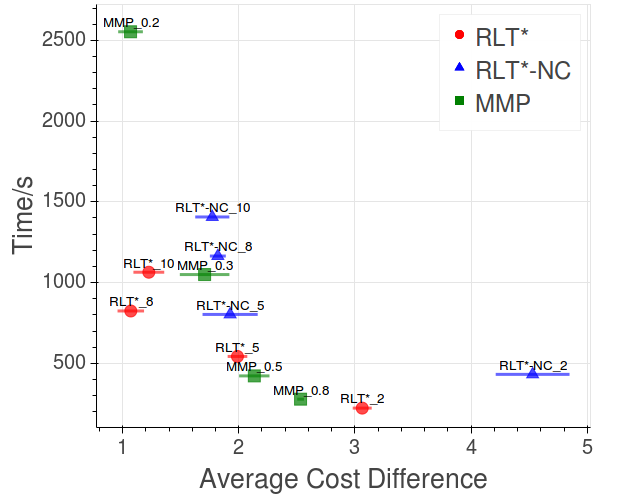
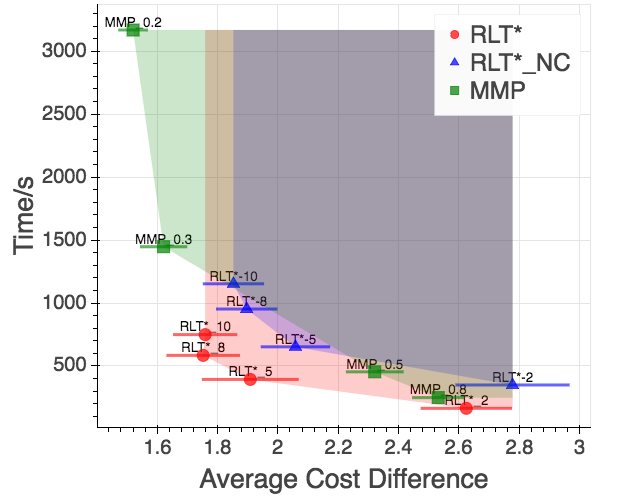
final draft

diff --git a/IRL_RRT.tex b/IRL_RRT.tex
@@ -79,7 +79,7 @@ Rapidly Exploring Learning Trees
 %%%%%%%%%%%%%%%%%%%%%%%%%%%%%%%%%%%%%%%%%%%%%%%%%%%%%%%%%%%%%%%%%%%%%%%%%%%%%%%%
 \begin{abstract}
 Inverse Reinforcement Learning (IRL) for path planning enables robots to learn cost functions for difficult tasks from demonstration, instead of hard-coding them. However, IRL methods face practical limitations that stem from the need to repeat costly planning procedures.
-In this paper, we propose Rapidly Exploring Learning Trees (RLT$^*$), which learns the cost functions of Rapidly Exploring Random Trees (RRT) from demonstration \jm{Since vanilla RRTs don't use cost functions, we should already mention specifically RRT* here}, thereby making inverse learning methods applicable to more complex tasks. Our approach extends Maximum Margin Planning to work with RRT$^*$ cost functions. Furthermore, we propose a caching scheme that greatly reduces the computational cost of this approach. Experimental results on simulated and real-robot data from a social navigation scenario show that RLT$^*$ achieves better performance at lower computational cost than existing methods.  We also successfully deploy control policies learned with RLT$^*$ on a real telepresence robot.
+In this paper, we propose Rapidly Exploring Learning Trees (RLT$^*$), which learns the cost functions of Optimal Rapidly Exploring Random Trees (RRT$^*$) from demonstration, thereby making inverse learning methods applicable to more complex tasks. Our approach extends Maximum Margin Planning to work with RRT$^*$ cost functions. Furthermore, we propose a caching scheme that greatly reduces the computational cost of this approach. Experimental results on simulated and real-robot data from a social navigation scenario show that RLT$^*$ achieves better performance at lower computational cost than existing methods.  We also successfully deploy control policies learned with RLT$^*$ on a real telepresence robot.
 
 
 \end{abstract}
@@ -88,17 +88,17 @@ In this paper, we propose Rapidly Exploring Learning Trees (RLT$^*$), which lear
 %%%%%%%%%%%%%%%%%%%%%%%%%%%%%%%%%%%%%%%%%%%%%%%%%%%%%%%%%%%%%%%%%%%%%%%%%%%%%%%%
 \section{Introduction}
 
-Learning from demonstration (LfD) \cite{argall2009survey} is of great interest to roboticists because it can avoid the need for tedious manual programming of complex behaviours \jm{Not just ``tedious'', it is often infeasible to program complex behaviours manually}. While most LfD methods rely on supervised learning (i.e., behavioural cloning) to directly learn policies, certain approaches, namely inverse optimal control (IOC) \cite{kalman1964linear} and inverse reinforcement learning (IRL) \cite{abbeel2004apprenticeship} instead learn \emph{cost functions} from demonstration, which are then used to \emph{plan} the robot's behaviour. 
+Learning from demonstration (LfD) \cite{argall2009survey} is of great interest to roboticists because it can circumvent tedious and often infeasible manual programming of complex behaviours. While most LfD methods rely on supervised learning (i.e., behavioural cloning) to directly learn policies, certain approaches, namely inverse optimal control (IOC) \cite{kalman1964linear} and inverse reinforcement learning (IRL) \cite{abbeel2004apprenticeship} instead learn \emph{cost functions} from demonstration, which are then used to \emph{plan} the robot's behaviour. 
 
 In addition, learned cost functions are often useful even when the environment changes.  For example, if the friction in a robot's wheels changes due to wear and tear, the optimal policy will change but the cost function will not. Thus, a robot trained via supervised learning would need to learn a new policy, while a robot trained via IRL could simply replan on the new dynamics with its existing cost function. In addition, cost functions are thought to be more succinct representations of the aims of the agent \cite{abbeel2004apprenticeship}. For example, a robot whose aim is to reach a goal as fast as possible may have a simple cost function but a complex policy. 
 
-IRL is an iterative process that, in an inner loop, solves the forward planning problem (i.e., finds an optimal policy under the current cost function) and subsequently, in an outer loop, updates the current cost function. This process repeats until convergence. For continuous domains such as robotics, solving the planning problem exactly is typically intractable. The domain can be discretised but doing so scales poorly in the dimensionality \jm{minor: the ``so'' in ``doing so'' here means discretization, which isn't what scales poorly in the dimensionality (the planning step is what scales poorly, not the discretization). Maybe you should rephrase it as something like: ``doing so may result in very high-dimensional models, to which most planning algorithms scale poorly''}, necessitating a coarse discretisation that yields poor performance.  Consequently, in robotics, planning is often done using sample-based, single-query motion planners, such as Rapidly Exploring Random Trees (RRTs) \cite{lavalle1998rapidly} and their variants \cite{karaman2011sampling}. Such methods can cope with high-dimensional continuous domains and elegantly handle \jm{the presence of} obstacles in the environment and motion constraints on the robot.
+IRL is an iterative process that, in an inner loop, solves the forward planning problem (i.e., finds an optimal policy under the current cost function) and subsequently, in an outer loop, updates the current cost function. This process repeats until convergence. For continuous domains such as robotics, solving the planning problem exactly is typically intractable. Doing so may result in very high-dimensional models, to which most planning algorithms scale poorly, necessitating a coarse discretisation that yields poor performance.  Consequently, in robotics, planning is often done using sample-based, single-query motion planners, such as Rapidly Exploring Random Trees (RRTs) \cite{lavalle1998rapidly} and their variants \cite{karaman2011sampling}. Such methods can cope with high-dimensional continuous domains and elegantly the presence of obstacles in the environment and motion constraints on the robot.
 
 %  IRL for example requires modeling the task as a Markov decision process (MDP), which is typically impractical in robotics, for several reasons.  Firstly, an MDP assumes full observability. Secondly, planning in an MDP, which IRL methods must do repeatedly, is costly, especially in continuous and high-dimensional domains. Finally, the lack of scalability and the assumption of full observability prohibit the accurate modeling of all aspect of the environment that a robot is expected to operate in. 
 
 % For these reasons, several researchers have proposed replacing the planning step in IRL with more convienient planners, e.g., Maximum Margin Planning (MMP)~\cite{ratliff2006maximum} uses A$^*$ search for planning. This avoids the need to do all the planning in advance, as is typical when solving an MDP. It also avoids the need to model all aspects of the environment since the robot can quickly replan its trajectory to account for uncertainty. However, deterministic search methods such as A$^*$ require discretisation of the state space, and quickly run into scalability problems as the discretisation becomes finer. 
 
-In this paper, we propose a new approach to IRL that enables the use of RRT$^*$ \cite{karaman2011sampling}, the optimality-driven variant of RRT, in the planning step.  First, we propose Approximate Maximum Margin Planning (AMMP), a variant of Maximum Margin Planning (MMP) \cite{ratliff2006maximum} that does not require optimal planning \jm{something missing here. In the last sentence you highlighted the use of ``optimality-driven'' RRT* but here you're saying you propose something else (that the reader doesn't know about yet) that does not require optimal planning. This will seem contradictory to the reader}.  Second, we propose a caching scheme that both improves performance and reduces computational cost when RRT$^*$ is used within AMMP. The resulting algorithm, which we call Rapidly Exploring Learning Trees (RLT$^*$),  allows computationally efficient IRL in high-dimensional, continuous domains with obstacles and motion constraints. 
+In this paper, we first, we propose Approximate Maximum Margin Planning (AMMP), a variant of Maximum Margin Planning (MMP) \cite{ratliff2006maximum} that does not assume an optimal planner. Doing so, allows us to use sample-based planning algorithms, such as RRT$^*$ in the inner loop of IRL. Second, we propose a caching scheme that both improves performance and reduces computational cost when RRT$^*$ is used within AMMP. The resulting algorithm, which we call Rapidly Exploring Learning Trees (RLT$^*$),  allows computationally efficient IRL in high-dimensional, continuous domains with obstacles and motion constraints. 
 
 We evaluate RLT$^*$ on real and simulated data from a social navigation scenario. The results demonstrate that, in the absence of obstacles and motion constraints, RLT$^*$ performs better and is faster than both MMP and RLT$^*$ without caching. Furthermore, we show that RLT$^*$, unlike MMP, can learn cost functions in robotic tasks with obstacles and motion constraints. Finally, we deploy our method on a real telepresence robot using data from human demonstrations.
 
@@ -111,13 +111,13 @@ We evaluate RLT$^*$ on real and simulated data from a social navigation scenario
 
 
 Substantial research has applied IRL to robotics \cite{henry2010learning,abbeel2008apprenticeship,vasquez2014inverse}.
-A big challenge in doing so is solving the forward planning problem under the current cost function at every iteration. The planning problem is especially intractable in robotics where the state-action spaces encountered are \jm{often} continuous and high dimensional. %Researchers thus resort to assumptions and approximations which reduce the computational cost of the procedure while allowing for high quality solutions. 
+A big challenge in doing so is solving the forward planning problem under the current cost function at every iteration. The planning problem is especially intractable in robotics where the state-action spaces encountered are often continuous and high dimensional. %Researchers thus resort to assumptions and approximations which reduce the computational cost of the procedure while allowing for high quality solutions. 
 
 One approach is to discretise the state-action spaces and solve the resulting Markov decision process (MDP). However, in high-dimensional tasks, fine discretisations render planning intractable and coarse discretisations yield poor performance.
 
-Some methods that use discretisation formulate the problem such that only an open-loop path (rather than a closed-loop policy) is required. Then, given deterministic dynamics, planning can be performed using A$^*$ \cite{ratliff2006maximum}, allowing realistic problems to be tackled. We take a similar approach but, by planning using RRT$^*$, we expand on the possibilities of the tasks that can be learned. \sw{This is confusing: paths are easier to plan so can scale better wrt dimensionality?  But still require discretisation and so not as scalable as RRT?  Needs to be made much clearer.}
+Some methods that use discretisation formulate the problem such that only an open-loop path (rather than a closed-loop policy) is required. Then, given deterministic dynamics, planning can be performed using A$^*$ \cite{ratliff2006maximum}, allowing realistic problems to be tackled. We take a similar approach but, by planning using RRT$^*$, we expand on the possibilities of the tasks that can be learned.
 
-Another approach is to use hybrid planners. Inverse Optimal Heuristic Control \cite{ratliff2009inverse} models the long-term goals of the agent as a coarsely discretised MDP, to ensure tractability, while using supervised learning to determine the local policy of the agent at each state. Graph-Based IOC \cite{byravan2015graph} uses discrete optimal control on a coarse graph and the actual path is executed using local trajectory optimisation techniques such as CHOMP \cite{ratliff2009chomp}, which would otherwise suffer from local minima. However, these methods employ complex and domain-specific planning formulations that are not suitable for all robotics tasks. By contrast, our approach employs widely used planners \jm{``a'' widely used planner}, making it versatile and easy to implement. 
+Another approach is to use hybrid planners. Inverse Optimal Heuristic Control \cite{ratliff2009inverse} models the long-term goals of the agent as a coarsely discretised MDP, to ensure tractability, while using supervised learning to determine the local policy of the agent at each state. Graph-Based IOC \cite{byravan2015graph} uses discrete optimal control on a coarse graph and the actual path is executed using local trajectory optimisation techniques such as CHOMP \cite{ratliff2009chomp}, which would otherwise suffer from local minima. However, these methods employ complex and domain-specific planning formulations that are not suitable for all robotics tasks. By contrast, our approach employs a widely used planners, making it versatile and easy to implement. 
 
 Another recent method is that Adaptive State Graphs \cite{okallearning}, which builds a state-action controller graph before doing any learning. This controller graph is akin to \emph{options} in semi-Markov decision processes, and allows for a more flexible representation of the state-action space. However, the controller used to learn underlying cost function is different from the one used to execute the robot's behaviour. This can have adverse effects since IRL  assumes that the demonstration paths came from the same planner used during learning.  Instead of building a controller graph first and then using a different controller to optimise trajectories, RLT$^*$ builds a controller tree on the fly and uses the same planner for learning and execution.
 
@@ -156,7 +156,7 @@ This cost functional is similar to the one used in optimal control and analogous
 \end{equation}
 $Z_{o,g}$ is the set of possible paths such that $s_1 = o, s_{l_\zeta} = g$.
 
-Many path planning algorithms discretise $\mathcal{S}$ and use graph search algorithms like A$^*$ to find the optimal path. Under mild assumptions, these approaches are guaranteed to find the best path on the graph, therefore solving \eqref{eq:back_plan} for a subset $\tilde{Z}_{o,g} \subset Z_{o,g}$, whose size depends on the discretisation. However, such methods scale poorly in the size of $\mathcal{S}$. Furthermore, such algorithms ignore motion constraints as they assume all nodes in the graph can be reached by its neighbours in exactly the same way. \jm{Is this true, though? The A* node expansion phase would take care of this, as long as there is some state-dependent expansion mechanism it should be fine, no?} This assumption does not hold, e.g., for non-holonomic robots, where the ortientation at each node places constraints on how it can be reached. In this new constrained space it is less straightforward to define actions and neighbouring nodes. 
+Many path planning algorithms discretise $\mathcal{S}$ and use graph search algorithms like A$^*$ to find the optimal path. Under mild assumptions, these approaches are guaranteed to find the best path on the graph, therefore solving \eqref{eq:back_plan} for a subset $\tilde{Z}_{o,g} \subset Z_{o,g}$, whose size depends on the discretisation. However, such methods scale poorly in the size of $\mathcal{S}$. Furthermore, such algorithms ignore motion constraints as they assume all nodes in the graph can be reached by its neighbours in exactly the same way. This assumption does not hold, e.g., for non-holonomic robots, where the ortientation at each node places constraints on how it can be reached. In this new constrained space it is less straightforward to define actions, neighbouring nodes as well as an admissible heuristic without which the algorithm is no longer optimal.
 
 These drawbacks motivate \emph{sample-based} path planning algorithms such as RRT$^*$  \cite{karaman2011sampling}. Instead of building a graph and then searching it, RRT$^*$ builds a tree on the fly and keeps track of the current best path. The algorithm consists of two interleaved steps. 
 
@@ -247,7 +247,7 @@ The inverse problem can therefore be seen as an iterative procedure that first s
 
 	\subsection{Approximate Maximum Margin Planning \label{subsec:ammp}}
 
-Section \ref{subsec:inverse_problem} shows how the multiple constraints of \eqref{eq:const1} can be reduced to the single constraint of \eqref{eq:const} for each demonstration. However, this reduction requires an optimal planner to perform the minimisation in \eqref{eq:const1}, which is impractical in many robot applications \jm{here I would be more specific, since up until this point in this paper you haven't yet presented any clear motivation for AMMP, and here your just vaguely saying that optimal planning is ``impractical'', so this section is not flowing very well. You can already highlight that even though RRT* could theoretically be used since it is asymptotically optimal, in practice optimality is not guaranteed since there is a budget on time or computational effort. This is why you need AMMP in order to enable the use of RRT*}. Suppose instead that, as in RRT$^*$, we have a mechanism for sampling different paths from $Z_{o,g}$ along with their respective costs and that, for a given finite time budget $T$, this path sampler samples a subset $\tilde{Z}_{o,g} \subset Z_{o,g}$,  Then we can modify \eqref{eq:const} to demand that our cost function satisfies,
+Section \ref{subsec:inverse_problem} shows how the multiple constraints of \eqref{eq:const1} can be reduced to the single constraint of \eqref{eq:const} for each demonstration. However, this reduction requires an optimal planner to perform the minimisation in \eqref{eq:const1}, which is impractical in many robot applications. Suppose instead that, as in RRT$^*$, we have a mechanism for sampling different paths from $Z_{o,g}$ along with their respective costs and that, for a given finite time budget $T$, this path sampler samples a subset $\tilde{Z}_{o,g} \subset Z_{o,g}$,  Then we can modify \eqref{eq:const} to demand that our cost function satisfies,
 \begin{equation}
 	C(\zeta^i_{o_i,g_i}) \leq \min_{\zeta_{o_i,g_i} \in \tilde{Z}_{o_i,g_i}} C(\zeta) \quad \forall i. \label{eq:const_rrt}
 \end{equation}
@@ -265,13 +265,12 @@ As suggested above, a simple way implement AMMP is to use RRT$^*$ as the sample-
 
 A key observation is that, in RRT$^*$, only the rewiring step depends on the cost function.  The sampling step is independent of it and, especially when motion constraints are present, contains the most computationally expensive operations. These are: 1) fitting and querying a data structure to find the nearest neighbour and the radius neighbours to a newly sampled point, 2) applying the steer function to all neighbours to and from the newly sampled point, and 3) checking for obstacles in these paths. By contrast,  the only potentially expensive operation in the rewiring step is querying the cost of an edge. 
 
-Therefore, the main idea behind RLT$^*$ is to perform the sampling step just once for each data point and cache it for reuse throughout learning \jm{I wouldn't say that this is the main idea behind RLT*- the main idea is using AMMP with RRT*. Besides, this would make the comparison with RLT*-NC nonsensical because it would be ``RLT* without the main idea''. You can just say ``Therefore, one important feature of RLT* is that we perform the sampling step once ...''}.  Then, at each iteration, only the rewiring step needs to be repeated as the cost function changes.
+Therefore, a key idea behind RLT$^*$ is to perform the sampling step just once for each data point and cache it for reuse throughout learning. Then, at each iteration, only the rewiring step needs to be repeated as the cost function changes.
 
 Algorithm \ref{alg:rrt_cache} describes the caching step, which takes as input $p$, the number of points to randomly sample from free space; $s_{init}$, the initial point; and $\eta$, the steer step size. For each randomly sampled point $s_{rand}$, we find the nearest neighbour, $s_{nearest}$, from the set of points in the vertex set $V$. We then create a new configuration point $s_{new}$ by steering from $s_{nearest}$ to $s_{rand}$. Next, we query the radius neighbours, $S_{near}$, of $s_{new}$ at a radius determined by  $\min\{\gamma_{RRT^*}(\frac{\log(|V|)}{|V|})^{\frac{1}{d}},\eta\}$. Here, $d$ is the dimensionality of $S$, and $\gamma_{RRT^*}$ is a constant based on the volume of free space (see \cite{karaman2011sampling}).  Next, we determine which points in $S_{near}$ can safely reach $s_{new}$ through the chosen \texttt{Steer} function (lines 13-17). These forward paths are stored in $Paths_{fwd}$. We then perform the same procedure but this time checking the paths from $s_{new}$ to $S_{near}$ and store them in the set $Paths_{bwd}$ (lines 18-22). This algorithm turns the sampling process of RRT$^*$  into a preprocessing step. Consequently, the expensive \texttt{Nearest}, \texttt{Near}, \texttt{Steer} and \texttt{Safe} procedures only need to be repeated $|D|$ times instead of $I\times|D|$ times.
 
 
 	\begin{algorithm}
-
 	 \algsetup{linenosize=\tiny}
  	\scriptsize
 	\caption{\small \texttt{cacheRRT}($n$,$s_{init}$,$\eta$)}
@@ -301,7 +300,7 @@ Algorithm \ref{alg:rrt_cache} describes the caching step, which takes as input $
 	\ENDIF
 	\ENDFOR
 	\STATE $V\gets V \cup s_{new}$
-	\STATE $P \gets P \cup \{s_{new},S_{fwd},S_{bwd},Paths_{fwd},Paths_{bwd}\}$
+	\STATE $P \gets P \cup \{s_{nearest},s_{new},S_{fwd},S_{bwd},Paths_{fwd},Paths_{bwd}\}$
 	\ENDFOR
 	\RETURN $P$
 	\end{algorithmic}
@@ -313,13 +312,7 @@ The output of Algorithm \ref{alg:rrt_cache} is input to Algorithm \ref{alg:plan_
 
 Algorithm \ref{alg:ammp} describes Rapidly Exploring Learning Trees (RLT$^*$), which uses Algorithms \ref{alg:rrt_cache} and \ref{alg:plan_cached}. First, we initialise the weights, either randomly or using a cost function that simply favours shortest paths. Then, for each datapoint $\zeta_i$, we calculate feature sums and run \texttt{cacheRRT}. The main learning loop involves cycling through all data points and finding the best path under a loss-augmented cost function. The feature sums of this path are calculated and subsequently the difference with the demonstrated feature sums is computed. At the end of each iteration, an average gradient is calculated and the cost function is updated. At convergence, the learned weights are returned.
 
-In addition to saving computation time, the use of caching encourages consistency between the gradients computed in each iteration, as they are estimated from the same sampled points.  The effect on the gradients, which resembles that of momentum \sw{cite}, can improve performance, as our results in the next section show.
-
-\jm{Algorithm 2: I think the operation $P\{\}$ is confusing, and not very well introduced. Why not just say $(s_{new}, S_{fwd}, etc)\leftarrow P_i$?}
-
-\jm{Algorithm 2: Line 4: $s_{nearest}$ is not added to P in Algorithm 1}
-
-\jm{Algorithm 2: Lines 12, 16 and 25: I think you mean capital $C$ since its the cost of a path}
+In addition to saving computation time, the use of caching encourages consistency between the gradients computed in each iteration, as they are estimated from the same sampled points.  The effect on the gradients, which resembles that of momentum \cite{polyak1964some}, can improve performance, as our results in the next section show.
 
 	\begin{algorithm}
 	\algsetup{linenosize=\tiny}
@@ -330,12 +323,9 @@ In addition to saving computation time, the use of caching encourages consistenc
 	\STATE $E \gets \emptyset$
 	\STATE $V \gets {s_{init}}$
 	\FOR{$i=0 \dots |P| $}
-	\STATE $s_{nearest} \gets P\{s_{nearest}^i\}$
-	\STATE $s_{new} \gets P\{s_{new}^i\}$
-	\STATE $S_{fwd} \gets P\{S_{fwd}^i\}$
-	\STATE $S_{bwd} \gets P\{S_{bwd}^i\}$
-	\STATE $Paths_{bwd} \gets P\{Paths_{bwd}^i\}$
-	\STATE $Paths_{fwd} \gets P\{Paths_{fwd}^i\}$
+	\STATE $(s_{nearest},s_{new}) \gets P_i$
+	\STATE $(S_{fwd},S_{bwd}) \gets P_i$
+	\STATE $(Paths_{bwd},Paths_{fwd}) \gets P_i$
 	\STATE $V\gets V \cup s_{new}$
 	\STATE $s_{min}\gets s_{nearest}$
 	\STATE $c_{min}\gets \texttt{Cost}(s_{nearest}) + c(path_{s_{nearest},s_{new}})$
@@ -343,8 +333,8 @@ In addition to saving computation time, the use of caching encourages consistenc
 	\FOR{$j=0 \dots |S_{fwd}| $}
 	\STATE $s_{fwd} = S^j_{fwd}$
 	\STATE $path_{fwd} = Paths^j_{fwd}$  
-	\STATE $c_{near} \gets \texttt{Cost}(s_{fwd}) + c(path_{fwd})$
-	\IF { $c_{near}<c_{new}$}
+	\STATE $C_{near} \gets \texttt{Cost}(s_{fwd}) + c(path_{fwd})$
+	\IF { $C_{near}<c_{new}$}
 	\STATE $s_{min} \gets s_{fwd}; c_{min}\gets c_{near}$
 	\ENDIF
 	\ENDFOR
@@ -353,8 +343,8 @@ In addition to saving computation time, the use of caching encourages consistenc
 	\FOR{$j=0 \dots |S_{bwd}| $}
 	\STATE $s_{bwd} = S^j_{bwd}$
 	\STATE $path_{bwd} = Paths^j_{bwd}$
-	\STATE $c_{new} \gets \texttt{Cost}(s_{new}) + c(path_{bwd})$
-	\IF {$c_{new}<\texttt{Cost}(s_{near})$}
+	\STATE $C_{new} \gets \texttt{Cost}(s_{new}) + c(path_{bwd})$
+	\IF {$C_{new}<\texttt{Cost}(s_{near})$}
 	\STATE $s_{parent} \gets \texttt{Parent}(s_{bwd})$
 	\STATE $E \gets E  \smallsetminus {(s_{parent},s_{bwd})} \cup {(s_{new},s_{bwd})} $
 	\ENDIF
@@ -422,7 +412,7 @@ For RRT$^*$, the dependance of $\tilde{Z}_{o_i,g_i}$ on the time budget T is har
 
 \section{Experiments}
 
-We evaluate RLT$^*$ by comparing it to MMP, implemented using an A$^*$ planner, and RLT-NC \sw{Shouldn't it be RLT$^*$-NC?}, an ablated version of RLT$^*$ that does not use caching.  We consider three experimental settings: 1) a simulated holonomic robot, 2) a simulated non-holonomic robot, and 3) a real telepresence robot.
+We evaluate RLT$^*$ by comparing it to MMP, implemented using an A$^*$ planner, and RLT$^*$-NC, an ablated version of RLT$^*$ that does not use caching.  We consider three experimental settings: 1) a simulated holonomic robot, 2) a simulated non-holonomic robot, and 3) a real telepresence robot.
 	
 	Our experiments take place in the context of socially intelligent navigation. IRL has been widely used in this setting \cite{okallearning,henry2010learning,vasquez2014inverse} because it is usually infeasible to hard-code the cost functions that a planner should use in complex social situations. Having the ability to quickly and effectively learn social navigation cost functions from demonstration would be a major asset for robots that operate in crowded environments such as airports \cite{triebel2015spencer}, museums \cite{thrun1999minerva} and care centres \cite{shiarlis2015teresa}.
 	
@@ -509,27 +499,27 @@ We also document the total learning time for K iterations for the algorithms und
 	
 	As mentioned earlier, planning time and grid resolution affect the performance of RRT$^*$ and $A^*$, respectively. To make a fair comparison, we vary these two quantities for each algorithm and plot cost difference against learning time at each setting.  We can then identify which algorithms at which settings comprise the Pareto front, i.e., are undominated wrt cost difference and learning time.
 	
-	 Figures \ref{fig:res_sim1} and \ref{fig:res_sim2} show the results for the two scenarios described earlier. MMP\_X (green) refers to MMP with X meters of grid resolution while  RLT\_X (red) and RLT-NC\_X (blue) refer to RLT and RLT without caching, respectively, with X seconds of planning.  Since lower is better for both cost difference and learning time, the closer a point is to the bottom left corner, the better.
+	 Figures \ref{fig:res_sim1} and \ref{fig:res_sim2} show the results for the two scenarios described earlier. MMP\_X (green) refers to MMP with X meters of grid resolution while  RLT\_X (red) and RLT$^*$-NC\_X (blue) refer to RLT and RLT without caching, respectively, with X seconds of planning.  Since lower is better for both cost difference and learning time, the closer a point is to the bottom left corner, the better.
 	 
-	 RLT$^*$ (red) dominates a large portion of the Pareto front, demonstrating good performance and generalisation in reasonable time. Furthermore, caching not only speeds learning in RLT$^*$, it also modestly reduces cost differences. This suggests that the caching scheme introduces extra robustness and generalisation capabilities within the algorithm. As mentioned in Section \ref{subsec:cached} we believe that the caching scheme makes the gradients smoother and more consistent and thus serves as a type of momentum. To show this we plot the inner product between successive gradients during learning in Figure cite \jm{Dont forget this}. We can see that the gradients of RLT$^*$ are clearly smoother, which further reinforces our claim. The performance of RLT$^*$ and RLT-NC significantly degrades at very low planning times (2 seconds) because AMMP cannot sample good enough paths to compute a useful gradient. Finally, MMP's learning time scales exponentially with the size of the grid. This, however, is not solely due to the graph getting larger but also because A$^*$ search scales poorly with the complexity of the cost function itself. Since it relies on an admissible heuristic that for complex cost functions is no longer tight, A$^*$ must expand many more states. By contrast, the sample-based RLT$^*$ is less susceptible to such problems.
+	 RLT$^*$ (red) dominates a large portion of the Pareto front, demonstrating good performance and generalisation in reasonable time. Furthermore, caching not only speeds learning in RLT$^*$, it also modestly reduces cost differences. This suggests that the caching scheme introduces extra robustness and generalisation capabilities within the algorithm. As mentioned in Section \ref{subsec:cached} we believe that the caching scheme makes the gradients smoother and more consistent and thus serves as a type of momentum. To show this we plot the inner product between successive gradients during learning in Figure \ref{fig:in_prod_grad} We can see that the gradients of RLT$^*$ are clearly smoother, which further reinforces our claim. The performance of RLT$^*$ and RLT$^*$-NC significantly degrades at very low planning times (2 seconds) because AMMP cannot sample good enough paths to compute a useful gradient. Finally, MMP's learning time scales exponentially with the size of the grid. This, however, is not solely due to the graph getting larger but also because A$^*$ search scales poorly with the complexity of the cost function itself. Since it relies on an admissible heuristic that for complex cost functions is no longer tight, A$^*$ must expand many more states. By contrast, the sample-based RLT$^*$ is less susceptible to such problems.
 
 	\begin{figure}[tbh]
 	\centering
 	\captionsetup[subfigure]{justification=centering}
 	\hspace{-1cm}
       \begin{subfigure}[b]{0.41\columnwidth}
-    \includegraphics[scale=0.25]{images/pf_same.png}
+    \includegraphics[scale=0.21]{images/pf_same.png}
     \caption{Unknown weights scenario.}
     \label{fig:res_sim1}
   \end{subfigure}
      	\hspace{10mm}
   \begin{subfigure}[b]{0.41\columnwidth}
 
-    \includegraphics[scale=0.25]{images/pf_different.png}
+    \includegraphics[scale=0.21]{images/pf_different.png}
     \caption{Unknown weights and features scenario.}
     \label{fig:res_sim2}
   \end{subfigure} 
-    \caption{Learning time vs.\ cost difference on the holonomic robot for MMP (green), RLT-NC (blue), and RLT (red) at different planning fidelities. On both axes \emph{lower is better}.}
+    \caption{Learning time vs.\ cost difference on the holonomic robot for MMP (green), RLT$^*$-NC (blue), and RLT (red) at different planning fidelities. On both axes \emph{lower is better}.}
     \vspace{-2mm}
   %\vspace{-3mm}
   \label{fig:results_sim}
@@ -551,7 +541,7 @@ We also document the total learning time for K iterations for the algorithms und
 	\begin{figure}[tbh]
 %	\hspace{-5cm}
 	\centering
-    \includegraphics[scale=0.15]{images/cf_w_plans.png}
+    \includegraphics[scale=0.15]{images/kino_paths.png}
     \caption{Qualitative evaluation of simulated results. The colormap denotes the learned cost function. Red denotes \emph(low) cost and green \emph{high} cost. The learned path (red) is very similar to the demonstrated path (black) with a clear improvement over the path before learning (purple).}
     \vspace{-2mm}
   %\vspace{-3mm}
@@ -567,10 +557,10 @@ We also document the total learning time for K iterations for the algorithms und
   	&\dot{\theta} = \omega,
   \end{align}
   where $v,\omega$ are the linear and angular velocities respectively.
-  To meet these constraints, we use the POSQ $\texttt{Steer}$ function \cite{palmieri2014novel}.  Since this approach gives a local closed-loop policy between two vertices of the tree, it is  more robust to noise and uncertainty in the motion. Furthermore, it has been shown to produce smooth paths between feasible configurations \cite{palmieri2014novel}. Evaluation is done in much the same way as in the previous section, except that we compare RLT$^*$ only to RLT-NC and not MMP, as the latter cannot handle motion constraints.
-RLT-NC was given 100 seconds to plan, in which case about 3000 configurations were sampled, and RLT$^*$'s cache was set to this size. 
+  To meet these constraints, we use the POSQ $\texttt{Steer}$ function \cite{palmieri2014novel}.  Since this approach gives a local closed-loop policy between two vertices of the tree, it is  more robust to noise and uncertainty in the motion. Furthermore, it has been shown to produce smooth paths between feasible configurations \cite{palmieri2014novel}. Evaluation is done in much the same way as in the previous section, except that we compare RLT$^*$ only to RLT$^*$-NC and not MMP, as the latter cannot handle motion constraints.
+RLT$^*$-NC was given 100 seconds to plan, in which case about 3000 configurations were sampled, and RLT$^*$'s cache was set to this size. 
 
-Figure \ref{fig:results_kino} shows that RLT$^*$ is an order of magnitude faster than RLT-NC, while achieving a lower cost difference. The kinematic constraints contribute to this speedup since they make the \texttt{Steer} and \texttt{Safe} procedures, which are cached, more expensive. As in the holonomic case, RLT$^*$ resulted in smoother learning supporting the results of Figure \ref{fig:in_prod_grad}. Figure \ref{fig:results_qual} shows an instance of the types of paths generated by our method when compared to ground truth. The specific example was drawn from the validation set and thus not a case of overfitting.
+Figure \ref{fig:results_kino} shows that RLT$^*$ is an order of magnitude faster than RLT$^*$-NC, while achieving a lower cost difference. The kinematic constraints contribute to this speedup since they make the \texttt{Steer} and \texttt{Safe} procedures, which are cached, more expensive. As in the holonomic case, RLT$^*$ resulted in smoother learning supporting the results of Figure \ref{fig:in_prod_grad}. Figure \ref{fig:results_qual} shows an instance of the types of paths generated by our method when compared to ground truth. The specific example was drawn from the validation set and thus not a case of overfitting.
   	\begin{figure}[tbh]
 	\centering
 	\captionsetup[subfigure]{justification=centering}
@@ -607,37 +597,35 @@ Since quantitative evaluation is difficult using real data, as no ground truth i
 %	\hspace{-5cm}
 	\centering
       \begin{subfigure}[b]{0.42\columnwidth}
-    \includegraphics[scale=0.15]{images/real_good2.png}
+    \includegraphics[scale=0.15]{images/real_good_new.png}
     \caption{}
     \label{fig:res_real1}
   \end{subfigure}
   \hspace{10mm}
   \begin{subfigure}[b]{0.42\columnwidth}
   \hspace{4mm}
-    \includegraphics[scale=0.15]{images/real_reasonable3.png}
+    \includegraphics[scale=0.15]{images/real_reasonable_new.png}
     \caption{}
     \label{fig:res_real4}
   \end{subfigure} 
-    \caption{Real demonstrated paths (black), learned paths (red), and shortest paths (purple). In (a), the learned path is similar to the demonstrated path; in (b) it is different but reasonable.}
+    \caption{Real demonstrated paths (black), learned paths (red), and shortest paths (purple). In (a), the learned path is similar to the demonstrated path; in (b) it is different but reasonable. The paths are overlayed over the learned cost function}
     \vspace{-2mm}
   %\vspace{-3mm}
   \label{fig:results_real}
   \end{figure}
 
-	Finally, we succesfully deployed the learned cost function, shown in Figure \ref{fig:real_cf}, on a real telepresence robot. A video demonstrating this deployment can be found in the supplementary material. Even though our planner outputs a full policy in terms of angular and linear velocities, to follow the prescribed path we used an elastic bands local planner in order to deal with dynamic changes in the environment.\ks{should I say this?} \jm{I think it's ok} 
+	Finally, we succesfully deployed the learned cost function, also shown in Figure \ref{fig:results_real}, on a real telepresence robot. A video demonstrating this deployment can be found in the supplementary material. Even though our planner outputs a full policy in terms of angular and linear velocities, to follow the prescribed path we used an elastic bands local planner in order to deal with dynamic changes in the environment.\ks{should I say this?} \jm{I think it's ok} 
 
-	\begin{figure}[tbh]
-%	\hspace{-5cm}
-	\centering
-    \includegraphics[scale=0.15]{images/cf_real.png}
-    \caption{Cost function learned using data from real demonstrations on a telepresence robot.}
-    \vspace{-2mm}
-  %\vspace{-3mm}
-  \label{fig:real_cf}
-  \end{figure}
+% 	\begin{figure}[tbh]
+% %	\hspace{-5cm}
+% 	\centering
+%     \includegraphics[scale=0.15]{images/cf_real.png}
+%     \caption{Cost function learned using data from real demonstrations on a telepresence robot.}
+%     \vspace{-2mm}
+%   %\vspace{-3mm}
+%   \label{fig:real_cf}
+%   \end{figure}
 
-
-\jm{I think it would be valuable to salvage some space to add a figure showing one example of a tree used by kynodynamic RLT*. Right now this feature is a bit underplayed, but it was a lot of work for you and as you saw, not very well explored in the lit. so it is definitely a bonus we should capitalize on.}
 
 
 	% For a qualitative comparison, we look to Figures \ref{fig:path_compare} and \ref{fig:cfs}. Figure \ref{fig:path_compare} shows a demonstrated path (black) along with the paths generated by three of the four algorithms. Note the effect of planning on a coarse grid in the case of MMP$_{0.8}$ (green). We can also see that RLT$^*$ (red) more faithfully replicates the example path. Figure \ref{fig:cfs} compares the ground truth cost function (Figure \ref{fig:get_cf}) against the learned cost functions for  MMP$_{0.3}$ and RLT$^*$ (Figures \ref{fig:astar03_cf}, \ref{fig:rrt_cf}). This comparison shows that  MMP$_{0.3}$ overestimates the cost related with the distance from the goal, i.e., the cost increases faster as we move away from the goal. This yields paths that reach the goal earlier, possibly accounting for the small difference in performance between the two algorithms. 
